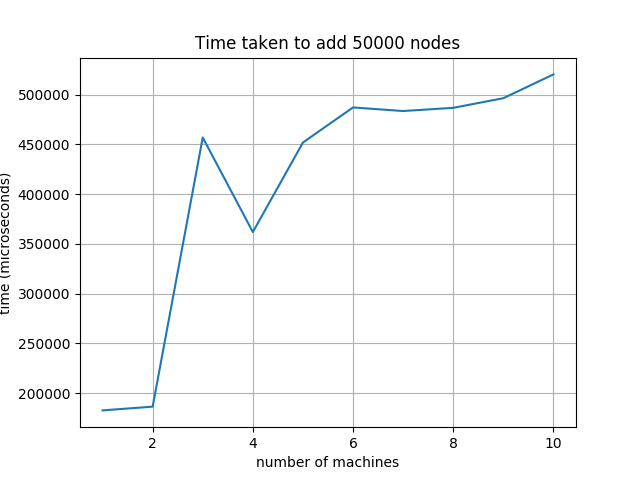
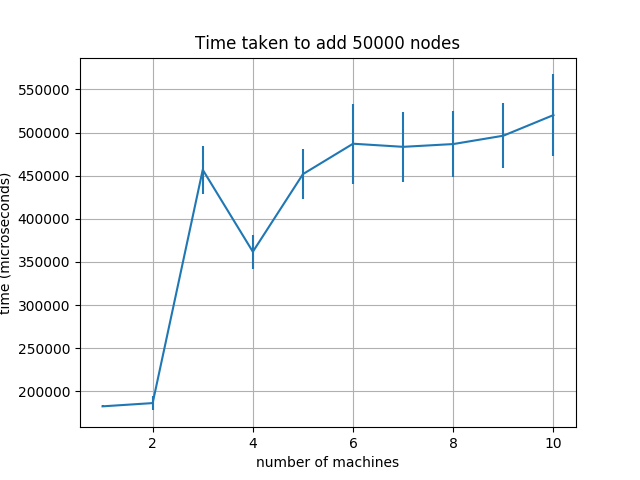
working on graphs

diff --git a/dllama/create_graphs.py b/dllama/create_graphs.py
@@ -6,25 +6,75 @@ conn = sqlite3.connect('benchmark_data.db')
 
 c = conn.cursor()
 
-mean_times = []
-for num_machines in range (1, 11):
-	args = ('0add_edges', num_machines)
-	mean_time = 0.0
-	num_trials = 0
-	for row in c.execute('SELECT * FROM data WHERE benchmark = ? AND num_machines = ? ORDER BY benchmark', args):
-		mean_time += row[3]
-		num_trials += 1
-	mean_time /= num_trials
-	mean_times.append(mean_time)
+graph_parameters = [('0add_nodes', 'Time taken to add 50000 nodes', 'add_nodes.png'),
+					('0add_edges', 'Time taken to add 100 edges to 5000 nodes', 'add_edges.png'),
+					('0power', 'Time taken to read all 7196 edges from a power-law graph with 1000 nodes', 'power.png'),
+					('0kronecker', 'Time taken to read all 2655 edges from a kronecker graph with 1024 nodes', 'kronecker.png'),
+					]
+
+for parameters in graph_parameters:
+	mean_times = []
+	standard_deviations = []
+	for num_machines in range (1, 11):
+		args = (parameters[0], num_machines)
+		mean_time = 0.0
+		num_trials = 0
+		times = []
+		for row in c.execute('SELECT * FROM data WHERE benchmark = ? AND num_machines = ? ORDER BY benchmark', args):
+			times.append(row[3])
+			mean_time += row[3]
+			num_trials += 1
+		mean_time /= num_trials
+		mean_times.append(mean_time)
+		standard_deviations.append(np.std(times))
+
+	t = np.arange(1, 11, 1)
+	plt.figure()
+	plt.errorbar(t, mean_times, yerr=standard_deviations)
+
+	plt.xlabel('number of machines')
+	plt.ylabel('time (microseconds)')
+	plt.title(parameters[1])
+	plt.grid(True)
+	plt.savefig(parameters[2])
+	#plt.show()
+
+
+
+n_groups = 5
+
+means_men = (20, 35, 30, 35, 27)
+std_men = (2, 3, 4, 1, 2)
+
+means_women = (25, 32, 34, 20, 25)
+std_women = (3, 5, 2, 3, 3)
+
+fig, ax = plt.subplots()
+
+index = np.arange(n_groups)
+bar_width = 0.35
+
+opacity = 0.4
+error_config = {'ecolor': '0.3'}
+
+rects1 = ax.bar(index, means_men, bar_width,
+                alpha=opacity, color='b',
+                yerr=std_men, error_kw=error_config,
+                label='Men')
+
+rects2 = ax.bar(index + bar_width, means_women, bar_width,
+                alpha=opacity, color='r',
+                yerr=std_women, error_kw=error_config,
+                label='Women')
+
+ax.set_xlabel('Group')
+ax.set_ylabel('Scores')
+ax.set_title('Scores by group and gender')
+ax.set_xticks(index + bar_width / 2)
+ax.set_xticklabels(('A', 'B', 'C', 'D', 'E'))
+ax.legend()
+
+fig.tight_layout()
+plt.show()
 
 conn.close()
-
-t = np.arange(1, 11, 1)
-plt.plot(t, mean_times)
-
-plt.xlabel('number of machines')
-plt.ylabel('time (microseconds)')
-plt.title('Time taken to add 50000 nodes')
-plt.grid(True)
-plt.savefig("test.png")
-plt.show()
